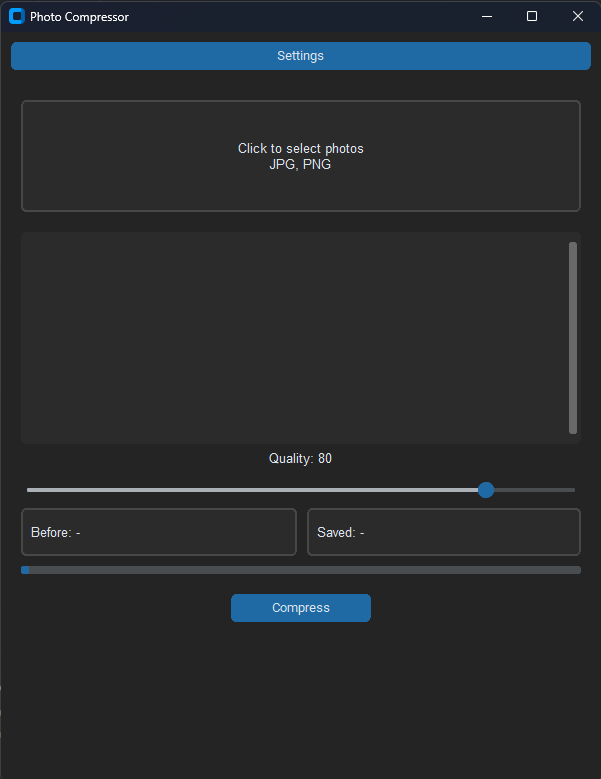
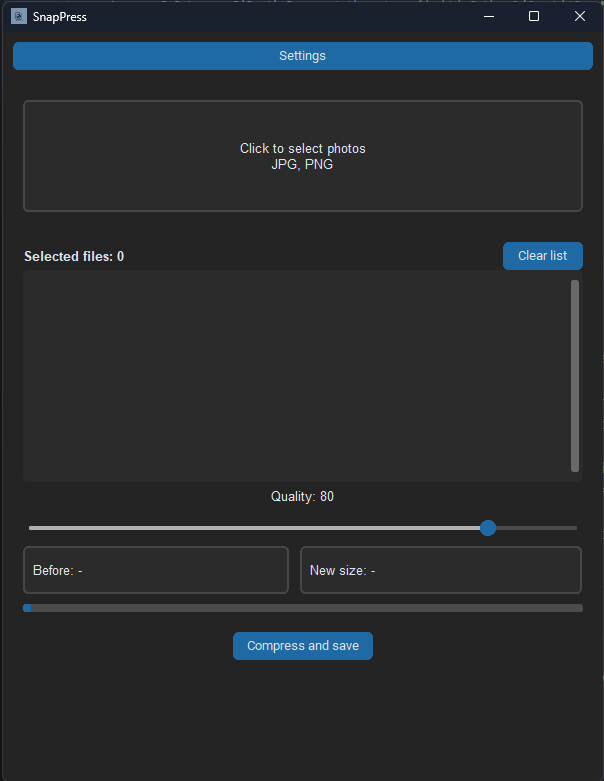
Changed tkinter messagebox to CTkMessageBox

diff --git a/main.py b/main.py
@@ -1,6 +1,7 @@
 import os
 import customtkinter as ctk
-from tkinter import filedialog, messagebox, PhotoImage
+from tkinter import filedialog, PhotoImage
+from CTkMessagebox import CTkMessagebox
 from PIL import Image
 import sys
 import platform
@@ -49,7 +50,7 @@ def select_photos():
                     thumbnail_refs[file] = thumb_img
 
                 except (OSError, Image.UnidentifiedImageError):
-                    messagebox.showinfo("ERROR05", "Cannot load thumbnail for: " + os.path.basename(file))
+                    CTkMessagebox(title="ERROR05", message="Cannot load thumbnail for: " + os.path.basename(file))
                     continue
 
                 ctk.CTkButton(row, text="X", width=30, command=lambda f=file, r=row: remove_file(f, r)).pack(
@@ -63,14 +64,14 @@ def select_photos():
                 skipped += 1
             counter_lbl.configure(text=f"Selected files: {len(selected_files)}")
         if skipped > 0:
-            messagebox.showinfo("WARNING02", f"{skipped} file(s) already selected!")
+            CTkMessagebox(title="WARNING02", message="{skipped} file(s) already selected!")
 
 # Function that compresses photos
 def compress():
     progress.set(0)
     # Checks if user gave any files
     if not selected_files:
-        messagebox.showinfo("ERROR01", "No photos selected!")
+        CTkMessagebox(title="ERROR01", message="No photos selected!")
         return
 
     total_before = 0
@@ -79,7 +80,7 @@ def compress():
     compress_value = int(quality.get())
 
     if settings.output_folder == "":
-        messagebox.showinfo("WARNING01", "Output folder not specified! File saved in same folder as original file!")
+        CTkMessagebox(title="WARNING01", message="Output folder not specified! File saved in same folder as original file!")
 
     for i, file in enumerate(selected_files):
         name, ext = os.path.splitext(file)
@@ -87,18 +88,18 @@ def compress():
 
         # Checks file type
         if ext.lower() not in [".jpg", ".jpeg", ".png"]:
-            messagebox.showinfo("ERROR02", "File not supported!")
+            CTkMessagebox(title="ERROR02", message="File not supported!")
             continue
 
         # Checks if file exists
         if not os.path.exists(file):
             # If not throws an error
-            messagebox.showinfo("ERROR03", "File  " + os.path.basename(file) + "  doesn't exist!")
+            CTkMessagebox(title="ERROR03", message="File  " + os.path.basename(file) + "  doesn't exist!")
             continue
         try:
             img = Image.open(file)
         except (OSError, Image.UnidentifiedImageError):
-            messagebox.showinfo("ERROR04", "File corrupted or doesn't exist!")
+            CTkMessagebox(title="ERROR04", message="File corrupted or doesn't exist!")
             continue
         # Checking if user selected output folder
         if settings.output_folder != "":
@@ -131,7 +132,7 @@ def compress():
     before_space_lbl.configure(text=f"Before compression: {total_before / MB:.2f}MB")
     after_space_lbl.configure(text=f"New size: {(total_before / MB) - total_difference:.2f}MB")
 
-    messagebox.showinfo("Done", "Compression completed!\n" + f"Saved {total_difference:.2f} MB (decreased in size by {total_difference_percent:.1f}%)")
+    CTkMessagebox(title="Done", message="Compression completed!\n" + f"Saved {total_difference:.2f} MB (decreased in size by {total_difference_percent:.1f}%)")
 
 # Function that updates quality label
 def update_label(value):

diff --git a/settings.py b/settings.py
@@ -1,4 +1,5 @@
-from tkinter import filedialog, messagebox
+from tkinter import filedialog
+from CTkMessagebox import CTkMessagebox
 import config
 import customtkinter as ctk
 
@@ -29,7 +30,7 @@ def select_folder(label):
     if chosen_folder:
         output_folder = chosen_folder
         label.configure(text=output_folder)
-        messagebox.showinfo("Done", "Selected output folder: " + output_folder)
+        CTkMessagebox(title="Done", message="Selected output folder: " + output_folder)
         config.save_config(b_mode, output_folder, thumb_size)
 
 def open_settings(app):

diff --git a/README.md b/README.md
@@ -32,13 +32,13 @@ A desktop application for compressing JPEG and PNG photos without visible qualit
 ### Universal (Windows, macOS, Linux)
 1. Clone the repository:
 ```bash
-git clone https://github.com/Sebian12/photo-compressor.git
-cd photo-compressor
+git clone https://github.com/Sebian12/SnapPress.git
+cd SnapPress
 ```
 
 2. Install dependencies:
 ```bash
-pip install Pillow
+pip install Pillow customtkinter CTkMessagebox
 ```
 
 3. Run the app:
@@ -68,7 +68,7 @@ Since v1.9.0, every release comes with an .exe file for Windows (oldest tested W
 
 If the binary doesn't work on your system, you can run from source:
 ```bash
-pip install customtkinter Pillow
+pip install Pillow customtkinter CTkMessagebox
 python3 main.py
 ```
 
@@ -106,6 +106,7 @@ python3 main.py
 - Python 3.14
 - customtkinter — GUI
 - Pillow — image processing
+- CTkMessageBox
 
 ## License
 